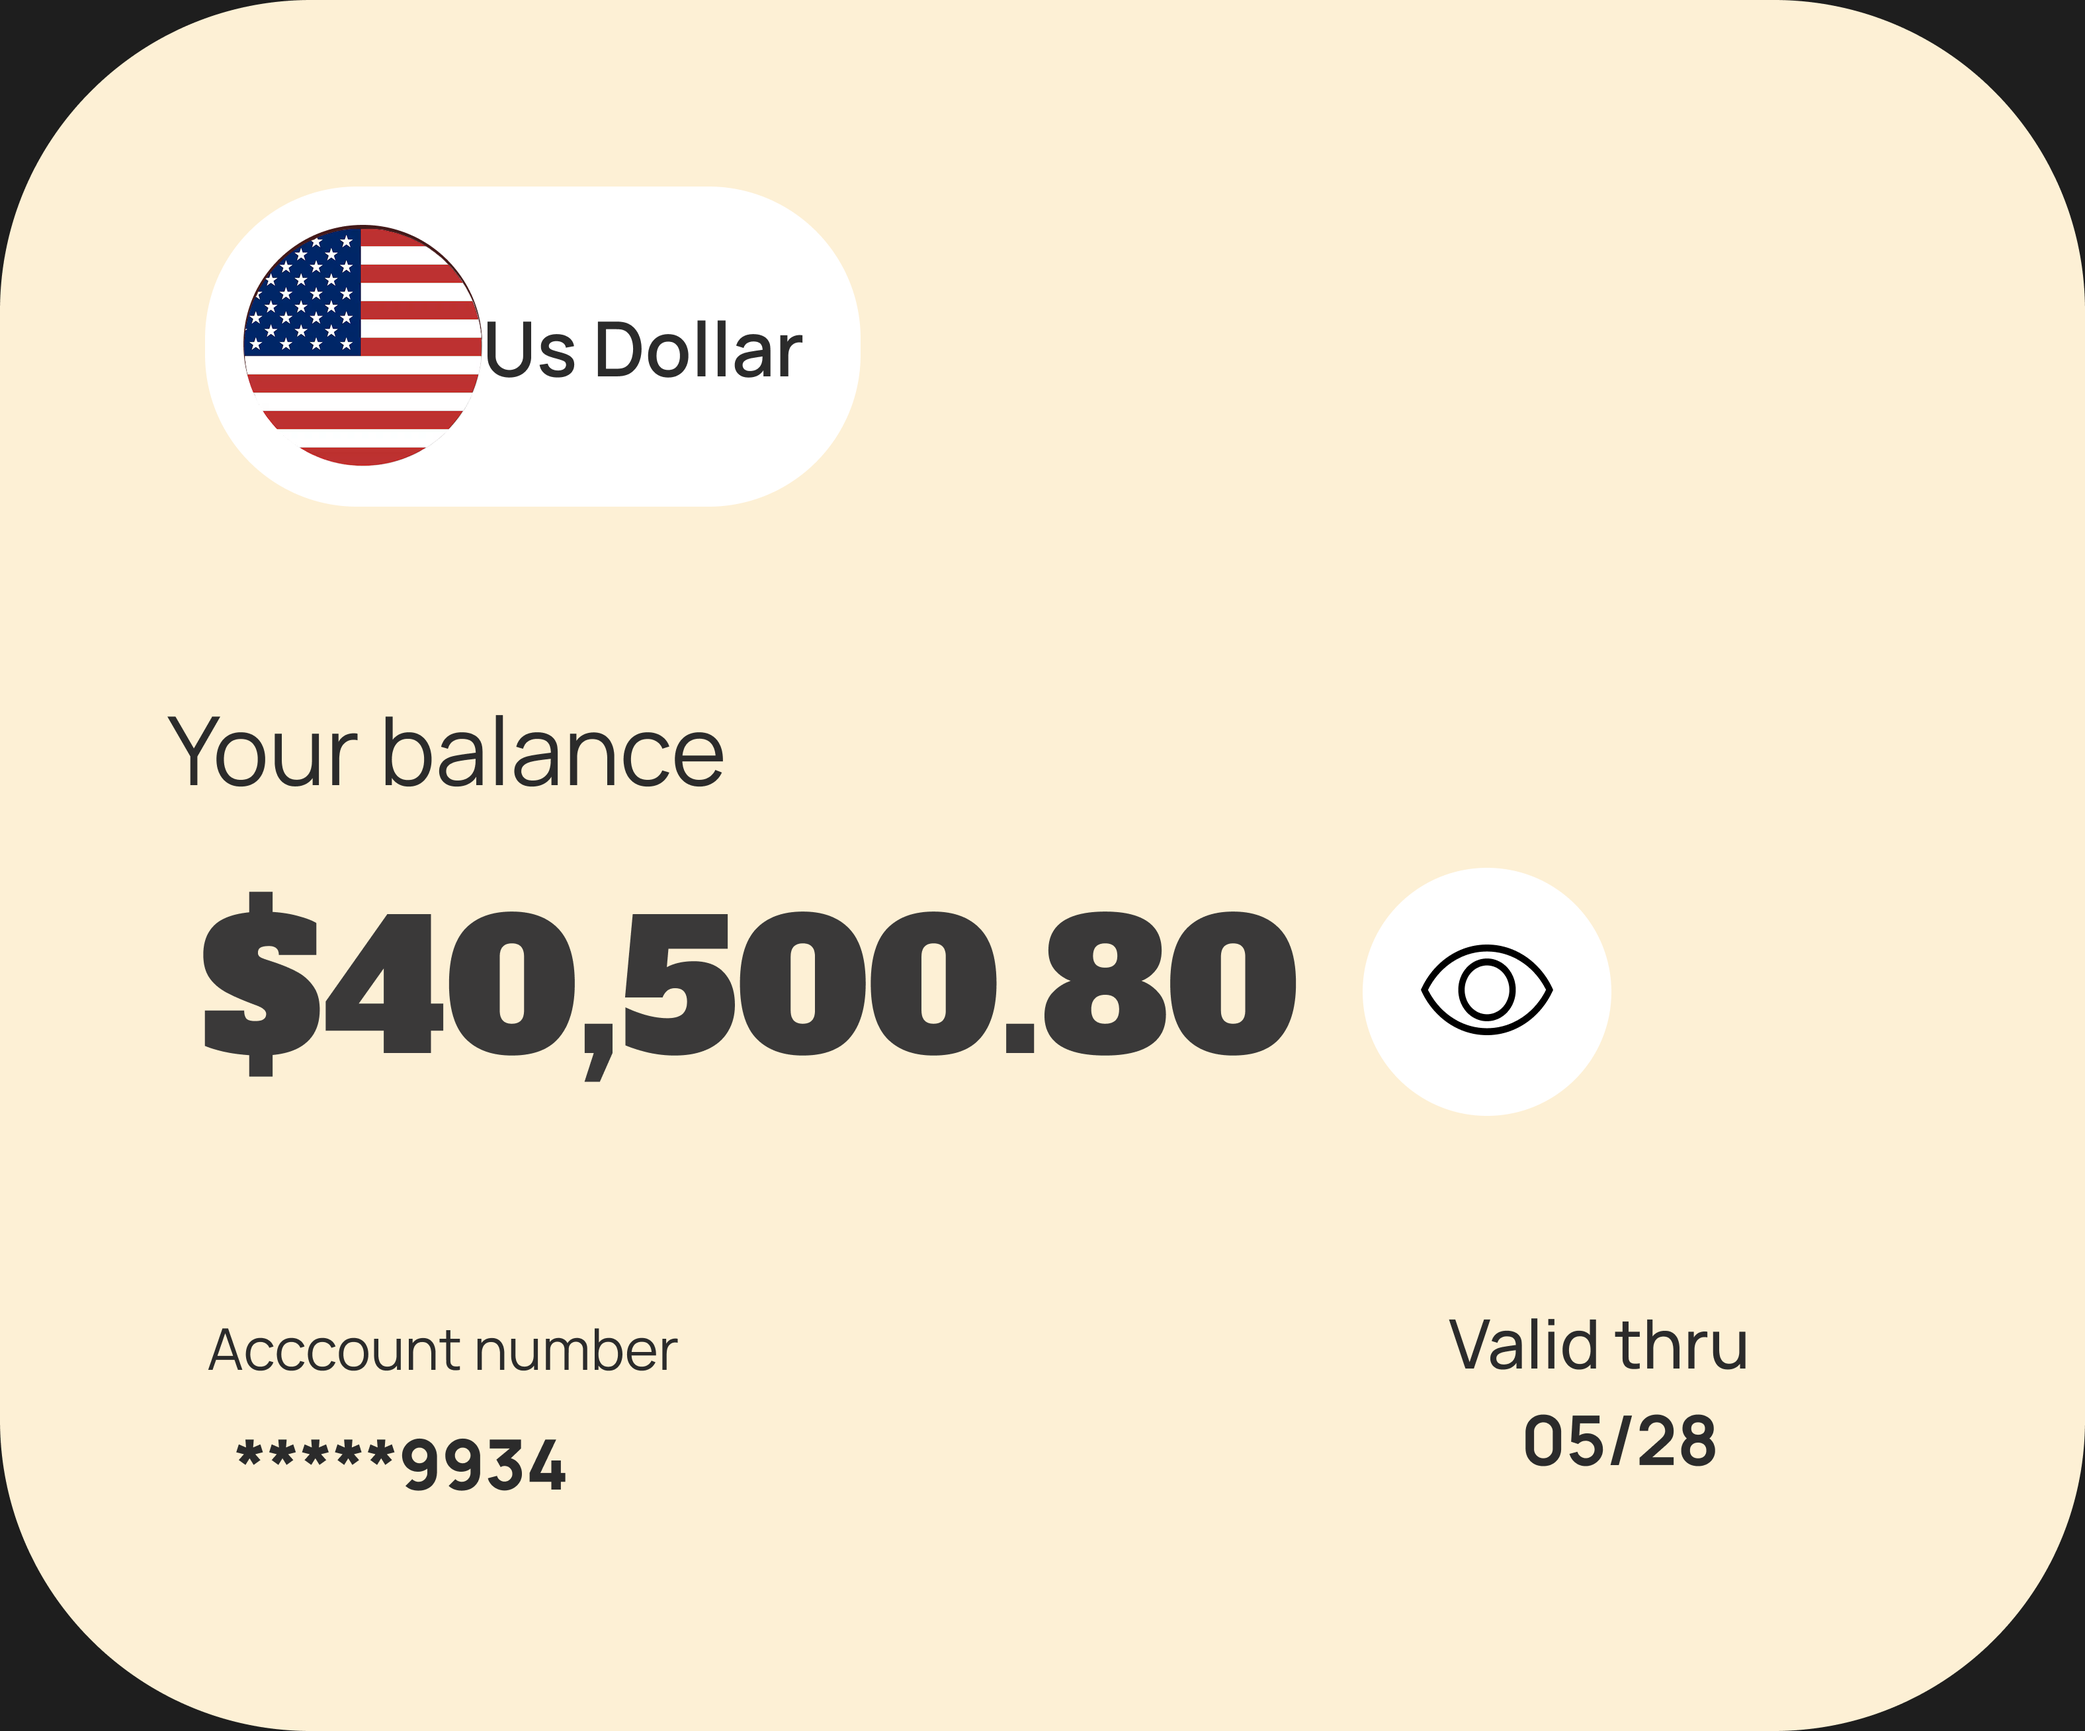
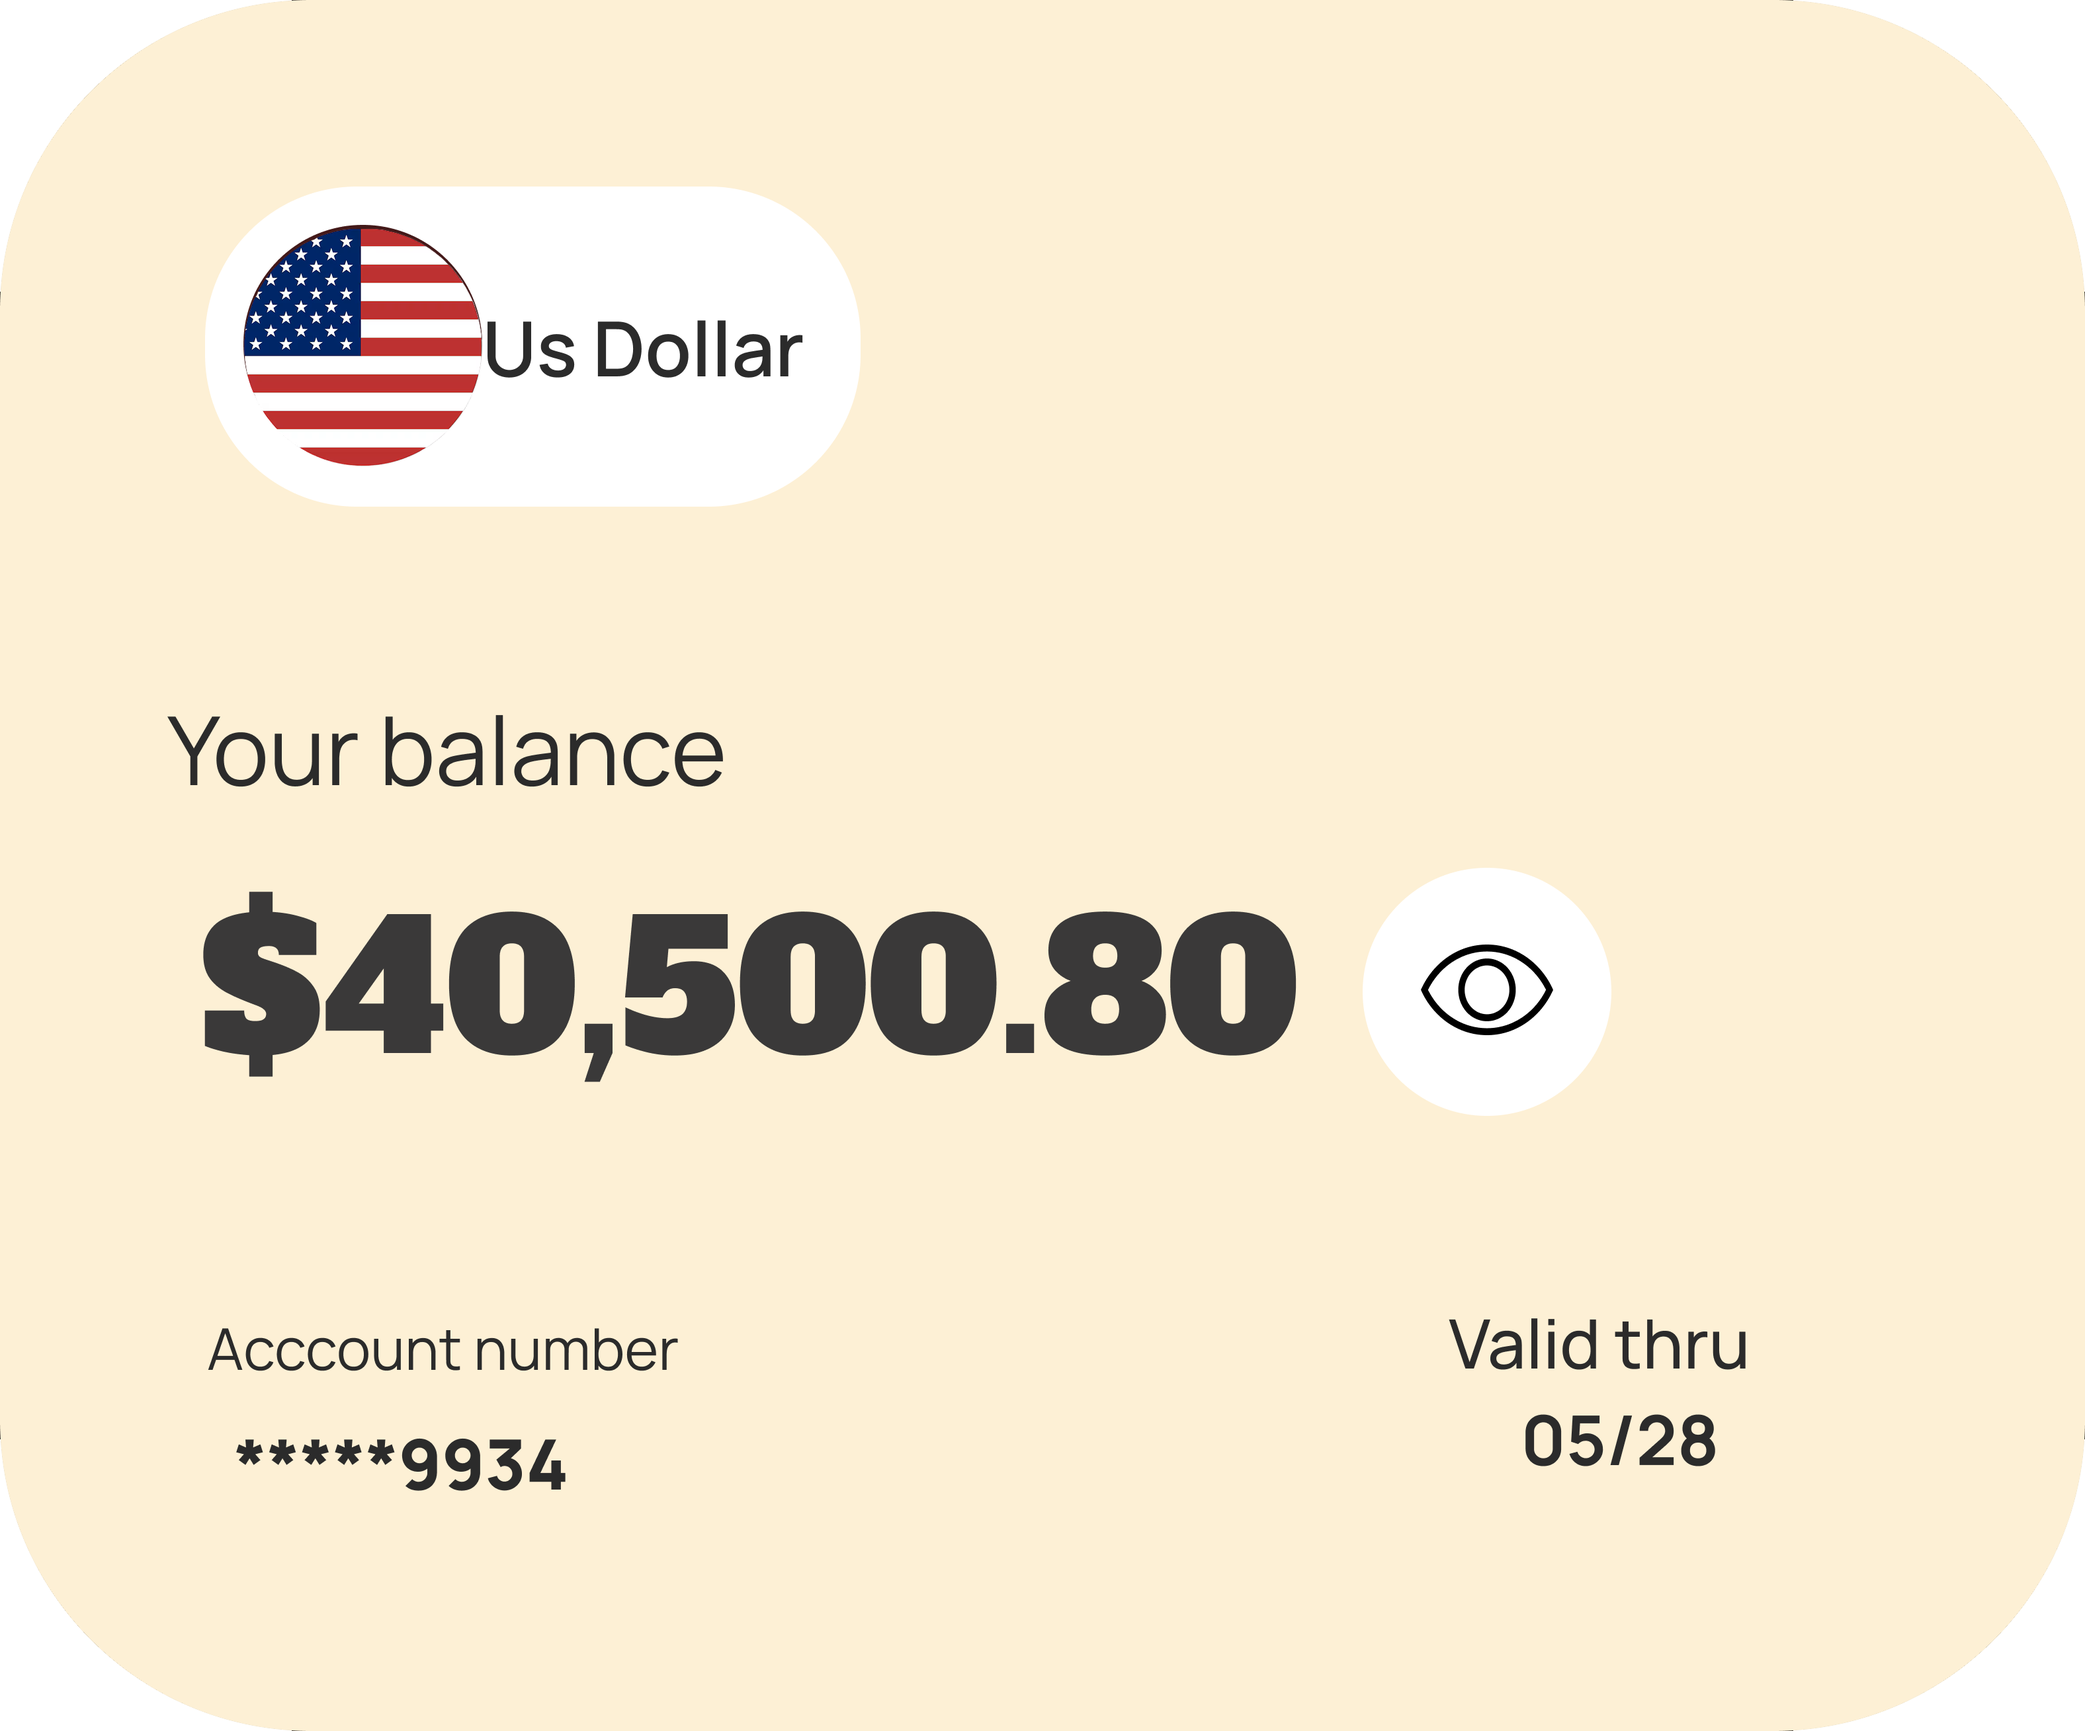
security: untrack app_config.dart with secret key, add app_config.example.dart, and update UI/build configs

diff --git a/lib/screens/settings.dart b/lib/screens/settings.dart
@@ -1,4 +1,5 @@
 import 'package:flutter/material.dart';
+import 'package:google_fonts/google_fonts.dart';
 import 'package:shared_preferences/shared_preferences.dart';
 import 'package:provider/provider.dart';
 import '../../core/theme/theme_provider.dart';
@@ -356,9 +357,8 @@ class _SettingsPageState extends State<SettingsPage> {
                           children: [
                             Text(
                               _userName,
-                              style: const TextStyle(
-                                color:
-                                    Colors.white, // Always White on Navy Card
+                              style: GoogleFonts.poppins(
+                                color: Colors.white,
                                 fontSize: 20,
                                 fontWeight: FontWeight.bold,
                               ),
@@ -368,7 +368,7 @@ class _SettingsPageState extends State<SettingsPage> {
                                 padding: const EdgeInsets.only(top: 4.0),
                                 child: Text(
                                   FirebaseAuth.instance.currentUser!.email!,
-                                  style: TextStyle(
+                                  style: GoogleFonts.poppins(
                                     color: Colors.white.withAlpha(179), // ~70% opacity
                                     fontSize: 14,
                                   ),
@@ -447,10 +447,30 @@ class _SettingsPageState extends State<SettingsPage> {
                   width: double.infinity,
                   child: OutlinedButton.icon(
                     onPressed: _testNotification,
-                    icon: const Icon(Icons.notifications_active),
-                    label: const Text(
+                    icon: Icon(
+                      Icons.notifications_active,
+                      color: theme.brightness == Brightness.dark
+                          ? Colors.white
+                          : colorScheme.secondary,
+                    ),
+                    label: Text(
                       "Test Notification Now",
-                      style: TextStyle(color: Colors.black),
+                      style: TextStyle(
+                        color: theme.brightness == Brightness.dark
+                            ? Colors.white
+                            : Colors.black,
+                        fontWeight: FontWeight.w600,
+                      ),
+                    ),
+                    style: OutlinedButton.styleFrom(
+                      side: BorderSide(
+                        color: theme.brightness == Brightness.dark
+                            ? Colors.white38
+                            : Colors.black26,
+                      ),
+                      shape: RoundedRectangleBorder(
+                        borderRadius: BorderRadius.circular(15),
+                      ),
                     ),
                   ),
                 ),

diff --git a/lib/screens/activitypage.dart b/lib/screens/activitypage.dart
@@ -300,30 +300,40 @@ class _ActivityPageState extends State<ActivityPage> {
                 Offset.zero & overlay.size,
               );
 
+              final isDark = Theme.of(context).brightness == Brightness.dark;
+              final Color itemColor = isDark ? Colors.white : Colors.black;
+
               showMenu<String>(
                 context: context,
                 position: position,
+                color: isDark ? const Color(0xFF1E2D3D) : Colors.white,
                 shape: RoundedRectangleBorder(
                   borderRadius: BorderRadius.circular(15),
                 ),
                 items: [
-                  const PopupMenuItem<String>(
+                  PopupMenuItem<String>(
                     value: 'add',
                     child: Row(
                       children: [
-                        Icon(Icons.add, color: Colors.black),
-                        SizedBox(width: 10),
-                        Text('Add Transaction'),
+                        Icon(Icons.add, color: itemColor),
+                        const SizedBox(width: 10),
+                        Text(
+                          'Add Transaction',
+                          style: TextStyle(color: itemColor),
+                        ),
                       ],
                     ),
                   ),
-                  const PopupMenuItem<String>(
+                  PopupMenuItem<String>(
                     value: 'upload',
                     child: Row(
                       children: [
-                        Icon(Icons.upload_file, color: Colors.black),
-                        SizedBox(width: 10),
-                        Text('Upload Statement'),
+                        Icon(Icons.upload_file, color: itemColor),
+                        const SizedBox(width: 10),
+                        Text(
+                          'Upload Statement',
+                          style: TextStyle(color: itemColor),
+                        ),
                       ],
                     ),
                   ),

diff --git a/lib/core/theme/app_theme.dart b/lib/core/theme/app_theme.dart
@@ -1,6 +1,7 @@
 // lib/core/theme/app_theme.dart
 import 'package:flutter/material.dart';
 import 'package:flutter/services.dart';
+import 'package:google_fonts/google_fonts.dart';
 import '../constants/app_text_styles.dart';
 
 // 1. First, let's define the specific colors used in your designs
@@ -24,6 +25,7 @@ class AppTheme {
   /// 🌞 LIGHT THEME
   static final ThemeData lightTheme = ThemeData(
     brightness: Brightness.light,
+    fontFamily: GoogleFonts.poppins().fontFamily,
     scaffoldBackgroundColor: AppColors.background,
     primaryColor: AppColors.primary,
 
@@ -69,6 +71,7 @@ class AppTheme {
   /// 🌚 DARK THEME
   static final ThemeData darkTheme = ThemeData(
     brightness: Brightness.dark,
+    fontFamily: GoogleFonts.poppins().fontFamily,
     scaffoldBackgroundColor: AppColors.secondary, // Navy Background
     primaryColor: AppColors.primary,
 
@@ -93,18 +96,15 @@ class AppTheme {
       foregroundColor: Colors.black,
     ),
 
-    textTheme: const TextTheme(
-      headlineLarge: TextStyle(
-        fontSize: 28,
-        fontWeight: FontWeight.bold,
+    textTheme: TextTheme(
+      headlineLarge: AppTextStyles.heading1.copyWith(
         color: Colors.white,
       ),
-      headlineMedium: TextStyle(
-        fontSize: 24,
-        fontWeight: FontWeight.bold,
+      headlineMedium: AppTextStyles.heading2.copyWith(
         color: Colors.white,
       ),
-      bodyMedium: TextStyle(fontSize: 16, color: Colors.white70),
+      bodyMedium: AppTextStyles.body.copyWith(color: Colors.white70),
+      labelLarge: AppTextStyles.label.copyWith(color: Colors.white),
     ),
 
     colorScheme: const ColorScheme.dark(

diff --git a/lib/screens/upload_statement_page.dart b/lib/screens/upload_statement_page.dart
@@ -11,6 +11,7 @@ import 'package:google_generative_ai/google_generative_ai.dart';
 import 'package:mime/mime.dart'; // For mime type lookup
 import 'package:spendr/screens/review_transactions_page.dart';
 import '../core/services/ad_service.dart';
+import '../core/config/app_config.dart';
 
 class UploadStatementPage extends StatefulWidget {
   const UploadStatementPage({super.key});
@@ -23,8 +24,10 @@ class _UploadStatementPageState extends State<UploadStatementPage> {
   bool _isAnalyzing = false;
   String? _statusMessage;
 
-  static const String _apiKey = 'AIzaSyCSa7eQvv4ZtwTGiJNhB3O9r372Asay11M';
-  final model = GenerativeModel(model: 'gemini-2.5-flash', apiKey: _apiKey);
+  final model = GenerativeModel(
+    model: 'gemini-2.5-flash',
+    apiKey: AppConfig.geminiApiKey,
+  );
 
   Future<void> _pickAndAnalyzeFile() async {
     final authProvider = Provider.of<AuthProvider>(context, listen: false);
@@ -33,8 +36,8 @@ class _UploadStatementPageState extends State<UploadStatementPage> {
       return;
     }
 
-    if (_apiKey == 'YOUR_API_KEY_HERE') {
-      setState(() => _statusMessage = "Please set your API Key in the code!");
+    if (AppConfig.geminiApiKey.isEmpty) {
+      setState(() => _statusMessage = "Please set your Gemini API Key in AppConfig!");
       return;
     }
 

diff --git a/lib/core/config/app_config.example.dart b/lib/core/config/app_config.example.dart
@@ -1,0 +1,22 @@
+/// Example app-wide configuration template.
+///
+/// Copy this file to `lib/core/config/app_config.dart` and add your local values:
+///   cp lib/core/config/app_config.example.dart lib/core/config/app_config.dart
+///
+/// You can also pass these at build time via --dart-define:
+///   flutter run --dart-define=BACKEND_URL=... --dart-define=GEMINI_API_KEY=...
+class AppConfig {
+  AppConfig._();
+
+  /// Base URL of the Spendr Node.js backend.
+  static const String backendUrl = String.fromEnvironment(
+    'BACKEND_URL',
+    defaultValue: 'https://spendr-backend-1.onrender.com',
+  );
+
+  /// Gemini API Key for statement processing.
+  static const String geminiApiKey = String.fromEnvironment(
+    'GEMINI_API_KEY',
+    defaultValue: '',
+  );
+}

diff --git a/lib/screens/intro_screen.dart b/lib/screens/intro_screen.dart
@@ -180,7 +180,7 @@ class _IntroScreenState extends State<IntroScreen> {
                   left: w * 0.25,
                   child: _buildShadowContainer(
                     child: Image.asset(
-                      'lib/assets/images/card.png',
+                      'lib/assets/images/card3.png',
                       width: w * 0.7,
                       fit: BoxFit.contain,
                     ),
